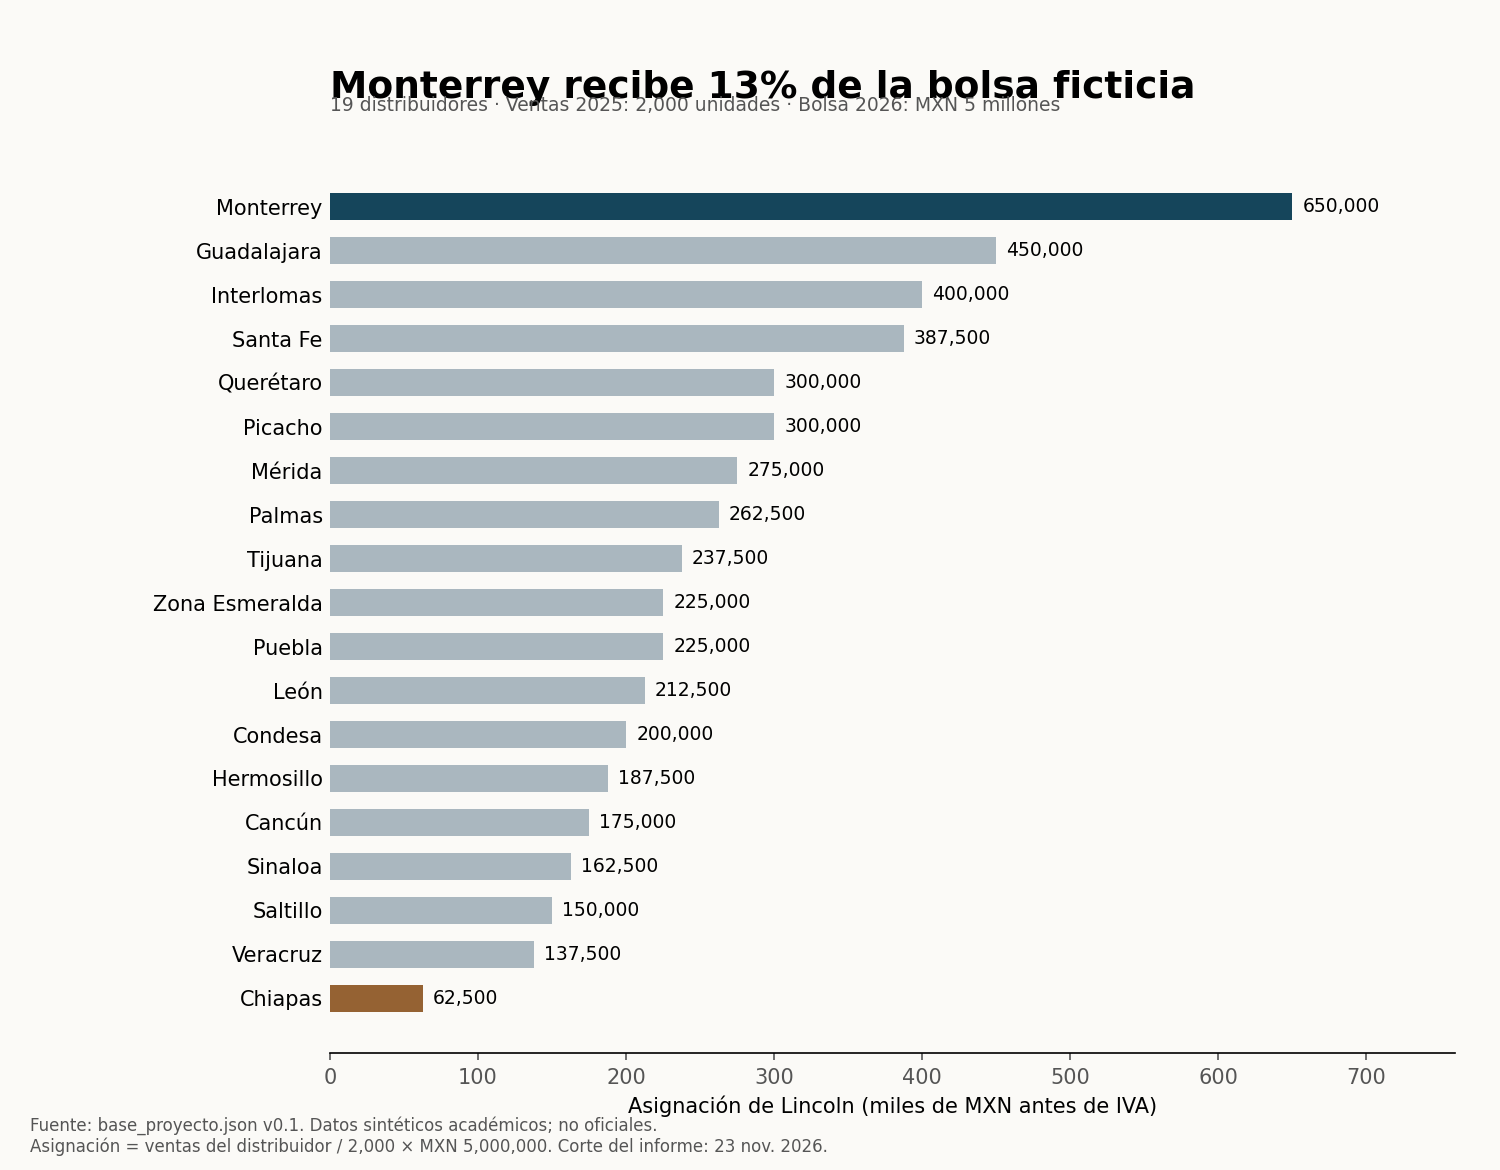
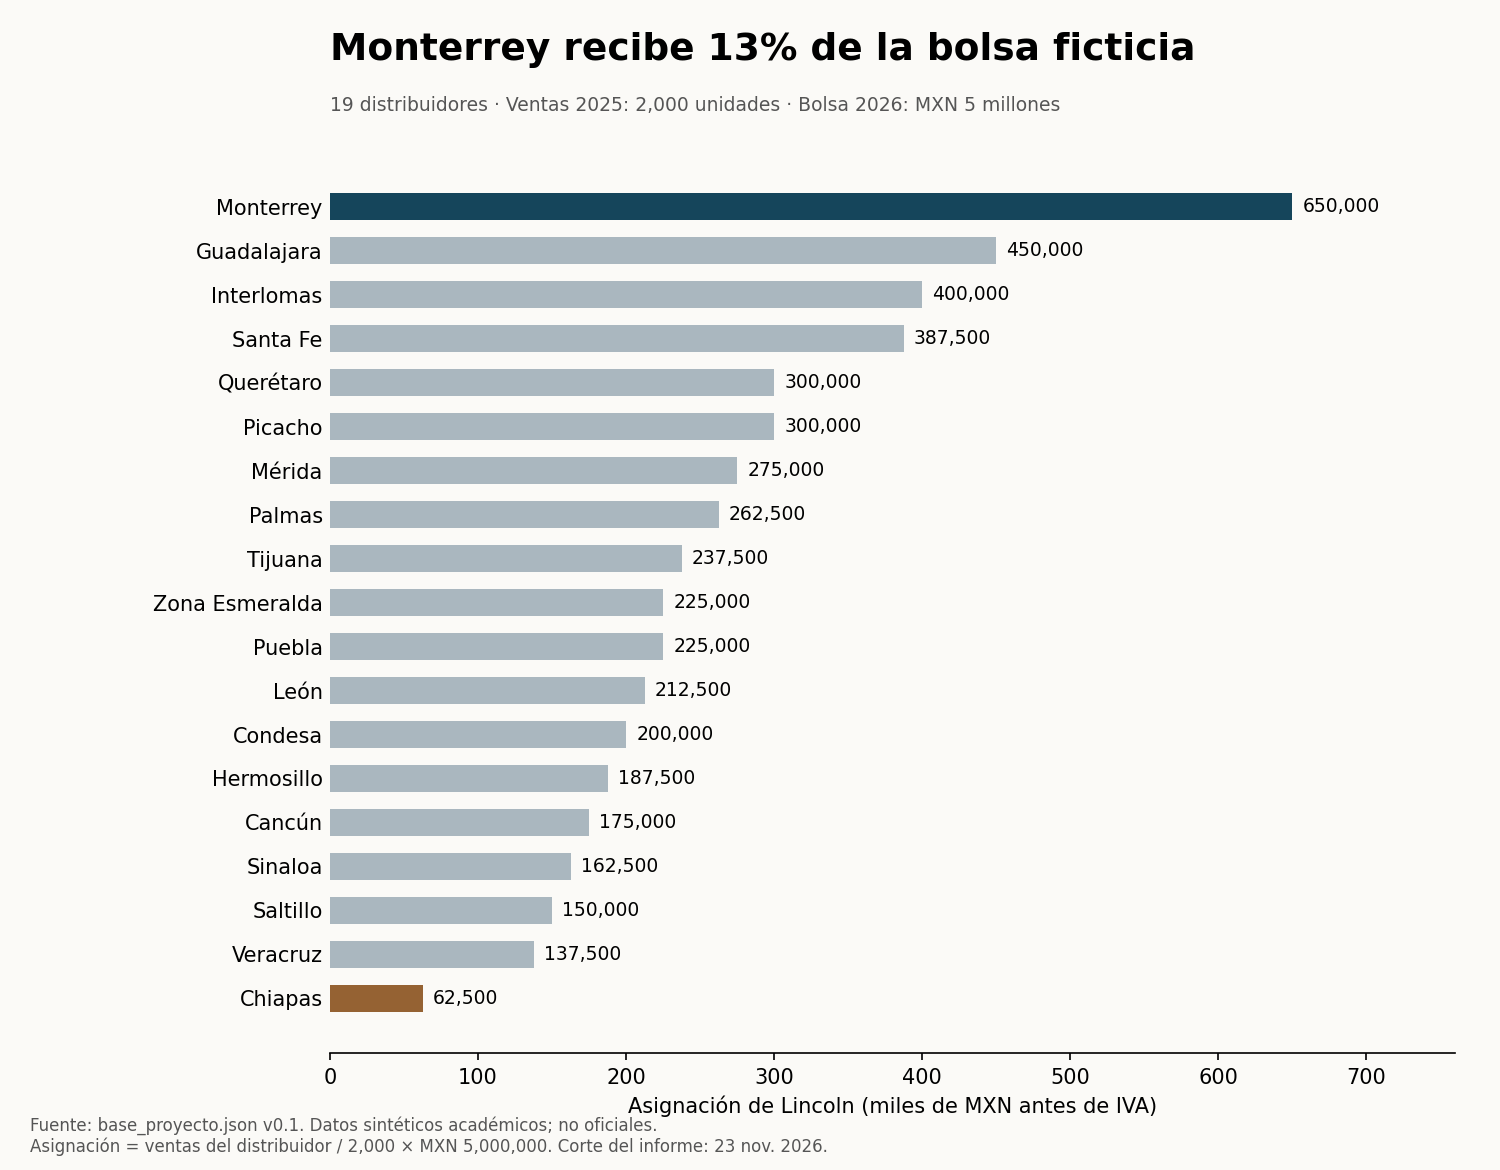
docs(lincoln): corregir separación de título y subtítulo de la gráfica final

diff --git a/lincoln_proyecto/src/generar_grafica.py b/lincoln_proyecto/src/generar_grafica.py
@@ -12,7 +12,7 @@ ax.barh([d['nombre'].replace('Lincoln ','') for d in rows],[d['asignacion_mxn']/
 for i,d in enumerate(rows):ax.text(d['asignacion_mxn']/1000+7,i,f"{d['asignacion_mxn']:,.0f}",va='center',fontsize=9)
 ax.set_xlim(0,760);ax.set_xlabel('Asignación de Lincoln (miles de MXN antes de IVA)',fontsize=10)
 ax.spines[['top','right','left']].set_visible(False);ax.tick_params(axis='y',length=0)
-ax.set_title('Monterrey recibe 13% de la bolsa ficticia',loc='left',fontsize=18,pad=26,fontweight='bold')
+ax.set_title('Monterrey recibe 13% de la bolsa ficticia',loc='left',fontsize=18,pad=44,fontweight='bold')
 fig.text(.22,.905,'19 distribuidores · Ventas 2025: 2,000 unidades · Bolsa 2026: MXN 5 millones',fontsize=9,color='#555555')
 fig.text(.02,.015,'Fuente: base_proyecto.json v0.1. Datos sintéticos académicos; no oficiales.\nAsignación = ventas del distribuidor / 2,000 × MXN 5,000,000. Corte del informe: 23 nov. 2026.',fontsize=8,color='#555555')
 fig.subplots_adjust(left=.22,right=.97,top=.87,bottom=.1)

diff --git a/lincoln_proyecto/src/generar_informe.py b/lincoln_proyecto/src/generar_informe.py
@@ -148,6 +148,6 @@ def footer(canvas,doc):
  canvas.drawString(40,27,'LINCOLN | SIMULADO | ENTREGA ACADÉMICA | 27 NOV 2026')
  canvas.drawRightString(555,27,str(doc.page))
  canvas.setFont('DV',6.5);canvas.drawRightString(555,805,'SOFÍA FREIJO VALDOVINOS · AI TOOLS')
-doc=SimpleDocTemplate(str(OUT),pagesize=A4,rightMargin=40,leftMargin=40,topMargin=55,bottomMargin=55,title='Lincoln - Informe técnico de revisión',author='Sofía Freijo Valdovinos')
+doc=SimpleDocTemplate(str(OUT),pagesize=A4,rightMargin=40,leftMargin=40,topMargin=55,bottomMargin=55,title='Lincoln - Informe técnico y empresarial',author='Sofía Freijo Valdovinos')
 doc.build(flow,onFirstPage=footer,onLaterPages=footer)
 print(OUT)
